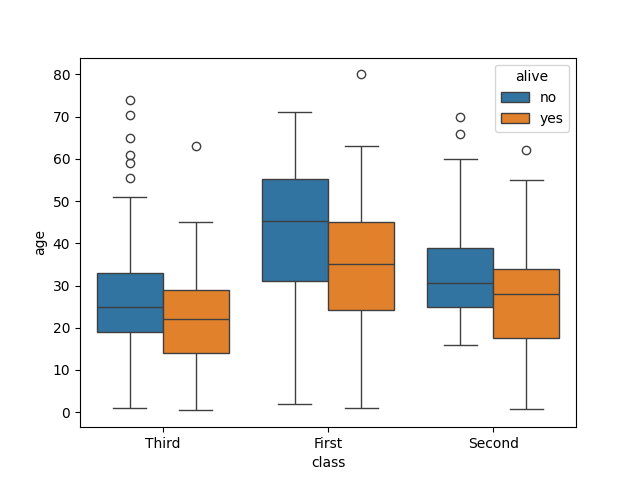
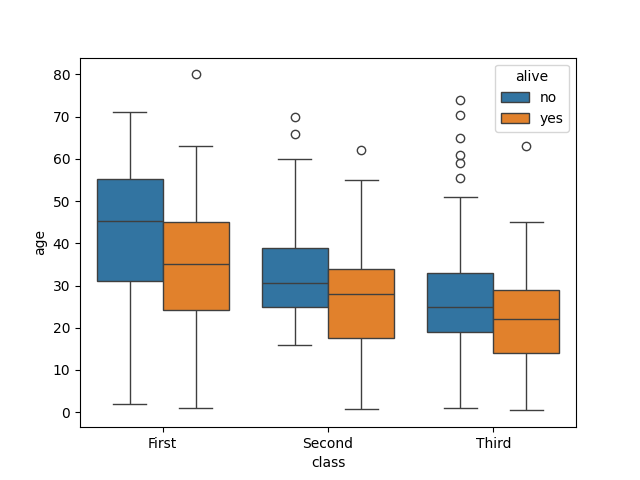
Update files

diff --git a/lib.py b/lib.py
@@ -25,7 +25,7 @@ def visualize(path):
     if not os.path.exists(save_folder):
         os.makedirs(save_folder)
 
-    boxplot = sns.boxplot(data=data, x="class", y="age", hue="alive")
+    boxplot = sns.boxplot(data=data, x="class", y="age", hue="alive", order=["First", "Second", "Third"])
 
     save_path = os.path.join(save_folder, f"boxplot class.png")
     plt.savefig(save_path)
